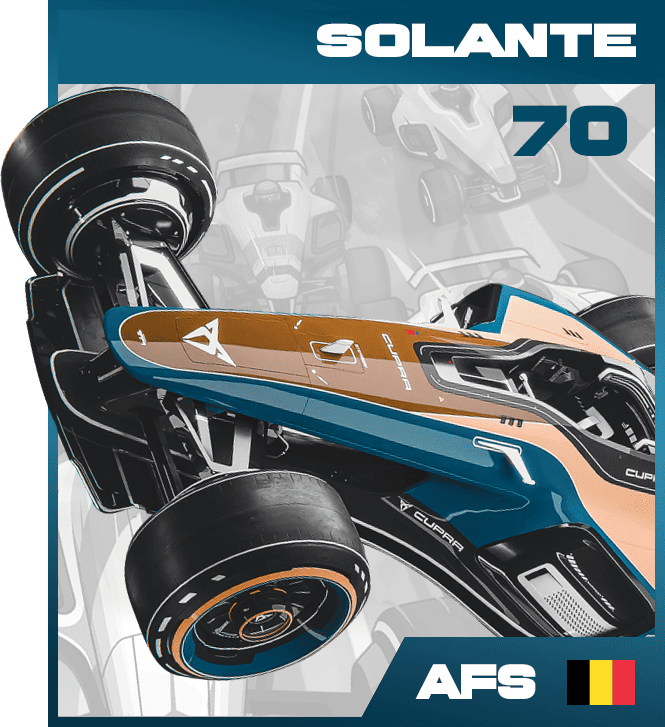
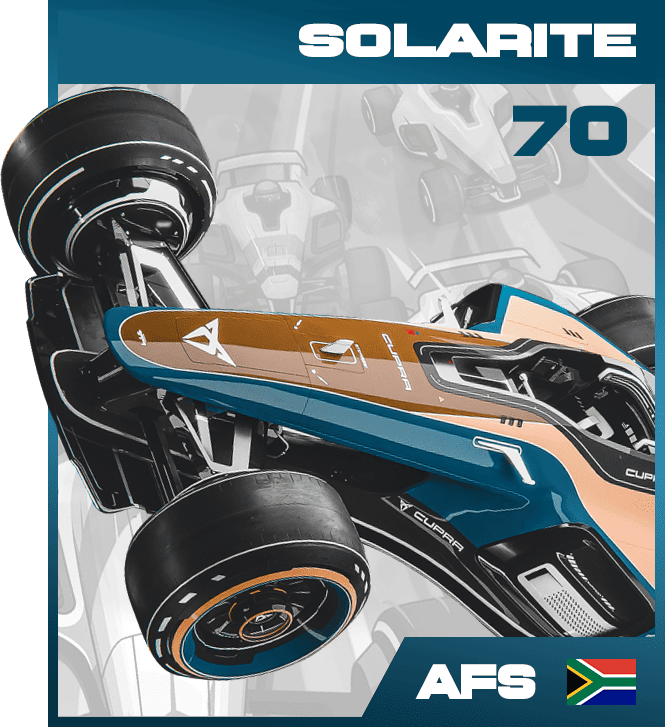
update leaderboard

diff --git a/pack/tmpackldb.html b/pack/tmpackldb.html
@@ -262,6 +262,10 @@ Heav	89	France	RDS
 twelfth	89	Nicaragua	regular
 Nayko	89	France	RDS
 Nayko	89	France	Octogone
+Heav	89	France	RDS
+Nayko	89	France	RDS
+Nayko	89	France	Octogone
+twelfth	89	Nicaragua	regular
 Baiwack	88	New zealand	regular
 Chroma	88	Germany	regular
 Complex	88	Netherlands	regular
@@ -372,6 +376,12 @@ Mikeyyy	87	Germany	regular
 Mobbi	87	Germany	regular
 tigu	87	Germany	regular
 Utenglutenguten	87	Norway	regular
+Mikeyyy	87	Germany	regular
+Mobbi	87	Germany	regular
+North	87	United States	update
+Tekky	87	Croatia	streamer
+tigu	87	Germany	regular
+Utenglutenguten	87	Norway	regular
 Abadpcgamer	86	Canada	regular
 Amongus	86	United states	regular
 Andy	86	Norway	regular
@@ -380,7 +390,7 @@ Awayfridish	86	Italy	regular
 Barbos	86	Germany	regular
 Bead	86	Honduras	regular
 Bimy	86	Russia	regular
-Bits	86	Lithuania	regular
+Bits	86	Lituania	regular
 Charles	86	Colombia	regular
 Cinxsss	86	Norway	regular
 Cruzial	86	France	regular
@@ -436,6 +446,13 @@ Zodiark	86	Canada	regular
 Bandj	86	France	degueux
 Ice	86	France	survivor
 Ynos	86	France	survivor
+Cfil	86	France	regular
+Karma	86	France	regular
+Langemann	86	Norway	regular
+LckerBierchen	86	Germany	regular
+SirLysergium	86	Lituania	regular
+TimeBreaker	86	Macedoine	regular
+Zenke	86	Sweden	regular
 Cfil	86	France	regular
 Karma	86	France	regular
 Langemann	86	Norway	regular
@@ -512,13 +529,19 @@ Xertzy	85	Belgium	regular
 Yeims	85	Spain	regular
 Ynos	85	France	regular
 Zimzalabiim	85	Slovakia	regular
-Ziren	85	Lithuania	regular
+Ziren	85	Lituania	regular
 Xiro	85	France	degueux
 Tunixx	85	France	survivor
 Selrahc	85	France	regular
 Aiko	85	Germany	regular
 golio	85	France	regular
 JarCrab	85	Denmark	regular
+Lukario	85	France	RDS
+Aiko	85	Germany	regular
+Dark62	85	France	Octogone
+golio	85	France	regular
+JarCrab	85	Denmark	regular
+Korkii	85	Turkyie	regular
 Lukario	85	France	RDS
 Acide	84	France	regular
 Alex w	84	Netherlands	regular
@@ -544,7 +567,7 @@ Hoelbi	84	Austria	regular
 Iprime	84	Italy	regular
 Ixxonn	84	Croatia	regular
 Joltysonic	84	Spain	regular
-Kem	84	Lithuania	regular
+Kem	84	Lituania	regular
 Killian	84	Ireland	regular
 Lars	84	Germany	regular
 Legu	84	France	regular
@@ -600,10 +623,16 @@ Akul	84	England	regular
 Daniii	84	Netherlands	regular
 Dexxy	84	Czech republic	regular
 Tarantu	84	Belgium	regular
+Akul	84	England	regular
+Daniii	84	Netherlands	regular
+Dexxy	84	Czech republic	regular
+Lima	84	Portugal	regular
+Tarantu	84	Belgium	regular
+Tarantu	84	Germany	update
 7ven	83	France	regular
 Ackster	83	France	regular
 Alfadream	83	France	regular
-Arne	83	Lithuania	regular
+Arne	83	Lituania	regular
 Asse	83	Austria	regular
 Authortime	83	United states	regular
 Badlulu	83	France	regular
@@ -659,6 +688,11 @@ Deadeye	83	Switzerland	regular
 Lubias	83	Germany	regular
 Natuss	83	France	regular
 NLBS	83	Denmark	regular
+Deadeye	83	Switzerland	regular
+Lubias	83	Germany	regular
+Natuss	83	France	regular
+NLBS	83	Denmark	regular
+Zhry	83	United States	regular
 Anige	82	France	regular
 Arthaniir	82	Belgium	regular
 Astronaut	82	Netherlands	regular
@@ -728,6 +762,15 @@ WalkingCat	82	Denmark	regular
 WoodItBeOk	82	Canada	regular
 Karmv	82	France	degueux
 Dark62	82	France	Octogone
+Aspect	82	Portugal	regular
+DazzleAlec	82	Netherlands	regular
+Fiorten	82	Colombia	regular
+Karmv	82	France	degueux
+Miguelino	82	Germany	regular
+SnowyGhostt	82	United states	regular
+WalkingKat	82	fix name	regular
+WoodItBeOk	82	Canada	regular
+Zyro	82	England	regular
 Aqlx	81	Belgium	regular
 Aquariummm	81	French	regular
 Ayako	81	France	regular
@@ -775,6 +818,10 @@ Waves	81	United states	regular
 Wawa	81	France	regular
 Iesauka	81	France	degueux
 DJS	81	United states	regular
+Litro	81	Germany	regular
+Miggy	81	United states	regular
+DJS	81	United states	regular
+Dolitox	81	France	regular
 Litro	81	Germany	regular
 Miggy	81	United states	regular
 Aapril	80	France	regular
@@ -843,6 +890,11 @@ Youri	80	Belgium	regular
 Zeemuis	80	Netherlands	regular
 Iesauka	80	France	twenty
 Existenzminimum	80	Germany	regular
+Existenzminimum	80	Germany	regular
+Grubbyyy	80	Germany	regular
+Kovalc	80	Netherland	regular
+Oskar	80	Denmark	regular
+WonarioStrike	80	Germany	regular
 Airwam	79	France	regular
 Arnouddddd	79	Netherlands	regular
 Bighowe	79	United states	regular
@@ -863,6 +915,11 @@ Notduct	79	United states	regular
 Sympthome	79	France	regular
 Willeknas	79	Sweden	regular
 Tway	79	Germany	regular
+xJKlyS	79	Germany	regular
+Jag	79	Norway	regular
+Jaglano	79	Norway	regular
+Tway	79	Germany	regular
+Tway	79	Belgium	update
 xJKlyS	79	Germany	regular
 Auwrah	78	France	regular
 Blitz	78	England	regular
@@ -885,13 +942,20 @@ Telnei	78	France	regular
 Troulet	78	France	regular
 Viilom	78	France	regular
 Ya	78	Germany	regular
+Beetween	78	Germany	streamer
 Arsenic	77	United states	regular
 Jayotik	77	England	regular
 Jolypop	77	Netherlands	regular
-Sbeeve	77	Lithuania	regular
+Sbeeve	77	Lituania	regular
 Chayann	77	France	degueux
 boshbish	77	England	regular
 Kskyler	77	Costa Rica	regular
+boshbish	77	England	regular
+Kskyler	77	Costa Rica	regular
+Moonless	77	Latvia	regular
+Odinbtw	77	Norway	regular
+Sajrra	77	Germany	regular
+Sett	77	United States	regular
 Astalet	76	France	regular
 Beetwinn	76	Germany	regular
 Brakeless	76	United states	regular
@@ -905,6 +969,10 @@ Zombpiffy	76	Canada	regular
 Chacalou	76	Yemen	degueux
 alxshaer	76	United states	regular
 Smir	76	Norway	regular
+alxshaer	76	United states	regular
+Coldplay	76	Germany	regular
+Dorukshock	76	Turkyie	regular
+Smir	76	Norway	regular
 Chayann	75	France	regular
 Ciremyxx	75	France	regular
 Coolgamerfella	75	United states	regular
@@ -917,6 +985,8 @@ Shadowwolf	75	Netherlands	regular
 Stokeine	75	Canada	regular
 Velom	75	France	regular
 Zerator	75	France	regular
+Quibbles	75	Australia	regular
+ToksyTB	75	France	regular
 Banano	74	Switzerland	regular
 Chacalou	74	Yemen	regular
 Disturbedspace	74	Norway	regular
@@ -926,6 +996,8 @@ Maxxx	74	Belgium	regular
 Nicsoby	74	France	regular
 Slowpiou	74	France	regular
 Zerator	74	France	regular
+Choogzy	74	Australia	regular
+Strip	74	Turkyie	regular
 Fraa	73	Italy	regular
 Lirik	73	Australia	regular
 Mykeloff	73	Poland	regular
@@ -935,6 +1007,10 @@ Rh3torique	73	France	regular
 Senjojoveler	73	France	regular
 Shadow	73	United states	regular
 Tommacino	73	Isle of man	regular
+Goatmilk	73	United states	regular
+hutchy	73	United states	regular
+kalamity	73	India	regular
+Biem	73	Netherland	regular
 Goatmilk	73	United states	regular
 hutchy	73	United states	regular
 kalamity	73	India	regular
@@ -950,12 +1026,14 @@ Tseko	72	France	regular
 Virtuoz	72	France	regular
 Yeager	72	France	regular
 Yeus	72	France	regular
+Mewzuh	72	England	regular
 Baanz	71	France	regular
 Blackdream	71	France	regular
 Sawki	71	France	regular
 Valadax	71	French	regular
 Valeyn	71	Netherlands	regular
 Nastibe	71	Laos	degueux
+mingingham	71	United States	regular
 Atome	70	Belgium	regular
 Dantafass	70	France	regular
 Erom96	70	Italy	regular
@@ -969,6 +1047,8 @@ Tomote	70	France	regular
 Toppen	70	France	regular
 Vevolution	70	France	regular
 Xstrab	70	Switzerland	regular
+Solarite	70	South Africa	regular
+Xylodriver	70	Australia	regular
 Belette	69	France	regular
 Effect	69	Hungary	regular
 Émilien	69	France	regular
@@ -1004,10 +1084,12 @@ Kann	40	France	regular
 Tylerzz	37	France	regular
 Wirtual	34	Norway	regular
 LeftisFaster	23	Germany	regular
+LeftisFaster	23	Germany	regular
 Sardoche	16	France	regular
 Kilou	14	France	regular
 Twisto	11	France	regular
 Kiwiunicorn	6	Germany	regular
+Saimen	2	Germany	regular
 Enlightenment	1	United states	regular
 `;
 
